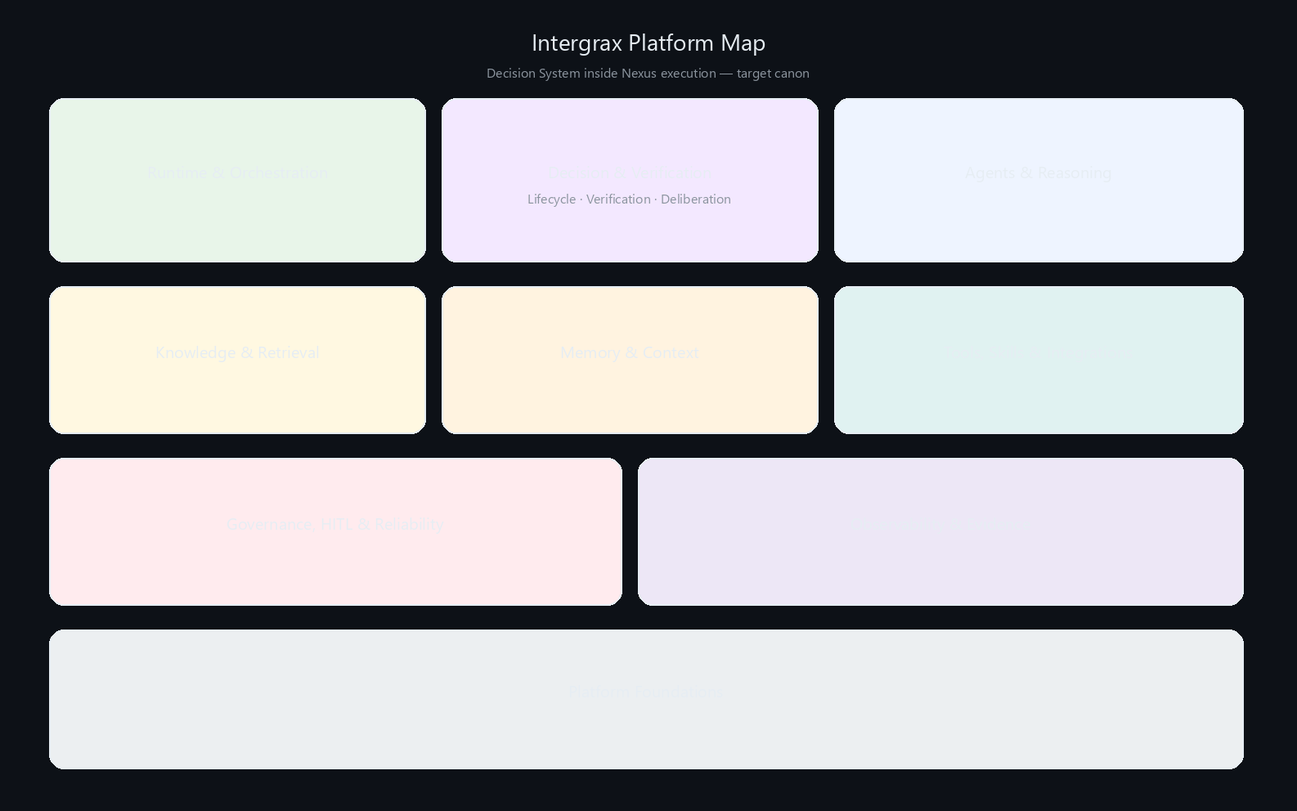
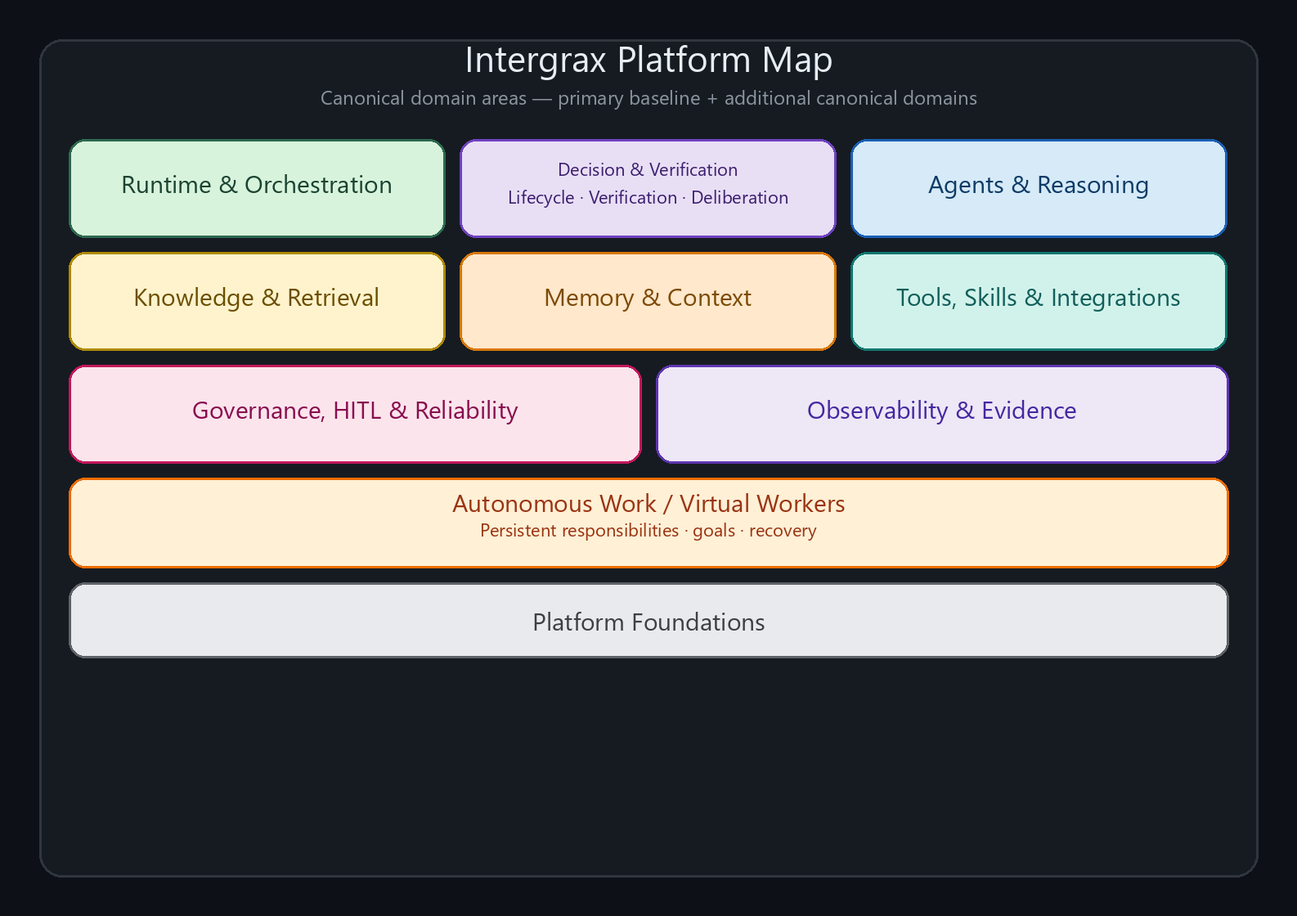
docs: freeze Autonomous Work platform architecture integration

diff --git a/docs/project/architecture/AUTONOMOUS_WORK.md b/docs/project/architecture/AUTONOMOUS_WORK.md
@@ -1,10 +1,140 @@
 # Autonomous Work
 
-**Status:** Canonical target architecture (domain pair 1:1) — **AW-0 documentation accepted; runtime implementation NOT STARTED**  
-**Plan (1:1):** [`../maintainers/plans/AUTONOMOUS_WORK.md`](../maintainers/plans/AUTONOMOUS_WORK.md)  
-**ADR:** [`ADR-AW-001`](../technical/adr/entries/2026-09-02/ADR-AW-001.md)  
-**Architecture governance:** [`INTERGRAX_ARCHITECTURE_PRINCIPLES.md`](INTERGRAX_ARCHITECTURE_PRINCIPLES.md)  
-**Audit origin:** [`AUTONOMOUS_WORK_VIRTUAL_WORKFORCE_ARCHITECTURE_GAP_AUDIT.md`](../../audit_results/2026-09-02/AUTONOMOUS_WORK_VIRTUAL_WORKFORCE_ARCHITECTURE_GAP_AUDIT.md) · [`..._REVIEW.md`](../../audit_results/2026-09-02/AUTONOMOUS_WORK_VIRTUAL_WORKFORCE_ARCHITECTURE_GAP_AUDIT_REVIEW.md)
+**Autonomous Work** is the Intergrax domain for persistent governed AI workers that own business responsibilities and goals across many executions.
+
+Its primary abstraction is the **Virtual Worker** — a durable operational entity, not an agent, task, execution, or application.
+
+---
+
+## Why it matters
+
+Most agent platforms optimize for **task-oriented execution**: a human or system sends work, an agent runs, and the run ends.
+
+Autonomous Work targets a different problem: **who remains responsible when the work spans days, events, failures, and many runs?**
+
+```text
+Agent:
+receives work → executes → finishes
+
+Virtual Worker:
+owns responsibility → watches goals → accepts/creates work
+→ launches governed executions → handles obstacles → remains responsible
+```
+
+Intergrax already provides governed execution, agents, tools, policy, evidence, and recovery building blocks. Autonomous Work composes them under one durable worker semantics layer instead of inventing parallel runtimes.
+
+---
+
+## Claim / maturity boundary
+
+> [!IMPORTANT]
+> **Canonical target architecture exists. Runtime implementation has not started.**
+>
+> - Virtual Workforce is **not** a shipped product.
+> - Virtual Worker contracts, persistence, control plane, and recovery controller are **not implemented**.
+> - CodeCraft / Sandbox production hardening remains required before production-style autonomous generated-code recovery.
+>
+> Do not present Virtual Workers as production capability until implementation and proof gates say so.
+
+---
+
+## At a glance
+
+| Concern | Summary |
+| --- | --- |
+| **Responsibility** | Persistent autonomous business responsibility, goals, lifecycle, work intake, and worker-level recovery semantics |
+| **Main abstraction** | **Virtual Worker** (`WorkerDefinition` → `WorkerInstance`) |
+| **Owns** | Responsibilities, goals, worker lifecycle, wake-up semantics, worker→work/execution correlation, obstacle classification hand-off |
+| **Reuses** | Collaborative Principal/authority, WorkItem, Governed Execution, Agents, Tools/Skills/Integrations, CodeCraft, Sandbox, Memory, Observability, Diagnostics, Hosting |
+| **Does not own** | Agent cognition, policy engine, execution lifecycle, memory store, generated-code synthesis, evidence truth, application UX |
+| **Current maturity** | AW-0 — canonical architecture and documentation integration; **runtime not implemented** |
+| **First planned proof** | **Autonomous Order Operations Worker** — planned / not implemented |
+
+---
+
+## Flagship architecture visual
+
+<a href="assets/autonomous-work-flagship-light.svg">
+<picture>
+  <source media="(prefers-color-scheme: dark)" srcset="assets/autonomous-work-flagship-dark.svg">
+  <source media="(prefers-color-scheme: light)" srcset="assets/autonomous-work-flagship-light.svg">
+  <img src="assets/autonomous-work-flagship-light.svg" alt="Autonomous Work flagship diagram: Business Responsibility and Goals feed a Virtual Worker that is not an Agent or Execution; events, schedules, and goal evaluation create Work; Governed Execution uses Agents, Tools, Skills, and Integrations; obstacles route through Recovery Controller to reuse capabilities or CodeCraft with Sandbox verification before resuming work; Governance and Authority bound actions while Observability and Evidence record facts.">
+</picture>
+</a>
+
+---
+
+## How it works
+
+1. A **Virtual Worker** exists as a durable responsibility holder — usually **IDLE**, not continuously reasoning.
+2. An external **event**, **schedule**, or **goal evaluation** wakes the worker when action is required.
+3. The worker **accepts or creates work** in the collaborative work plane.
+4. The worker dispatches a canonical **Governed Execution** — it does not replace execution semantics.
+5. An **Agent** performs reasoning inside that execution.
+6. **Governance** evaluates authority and policy at configured boundaries.
+7. When progress stalls or fails, **obstacle classification** precedes any recovery strategy.
+8. The worker first tries to **reuse an existing capability**; a true gap may route to **CodeCraft**.
+9. Generated code runs through **Sandbox + verification** before resuming the original work item.
+10. After execution completes, the **worker remains responsible** — ready for the next wake-up.
+
+Persistent availability is **event-driven and bounded**, not an infinite LLM loop.
+
+---
+
+## Ownership boundaries
+
+```text
+Worker != Agent
+Worker != Principal
+Worker != WorkItem
+Worker != Task
+Worker != Execution
+Worker lifetime != process lifetime
+```
+
+| Autonomous Work owns | Autonomous Work does not own |
+| --- | --- |
+| Worker definition/instance semantics, responsibilities, goals, lifecycle, wake-up, recovery decision semantics | Collaborative identity/authority, Task/Run/Execution lifecycle, agent cognition, tools/skills/integrations, memory stores, CodeCraft synthesis, sandbox substrate, HOS/evidence truth, Tier-3 application UX |
+
+Normative rule: **Capability may grow. Authority may not self-expand.**
+
+---
+
+## Relationship to Intergrax
+
+Autonomous Work sits above governed execution and composes existing domains:
+
+| Neighbor | Relationship |
+| --- | --- |
+| [Collaborative Work](COLLABORATIVE_WORK.md) | Principal binding, workspace, delegation, future WorkItem/Assignment |
+| [Governed Execution](GOVERNED_EXECUTION.md) | Authority, policy enforcement, control-plane gates |
+| [Unified Execution Runtime](UNIFIED_EXECUTION_RUNTIME.md) / Nexus | Actual Task/Run/Attempt/Execution lifecycle |
+| [Agents](AGENT_CONTRACTS_AND_ASSEMBLY.md) / [Reasoning](REASONING_AND_COGNITION.md) | Cognition inside worker-triggered executions |
+| [Code Craft](CODE_CRAFT.md) / Sandbox | Canonical missing-code capability path |
+| [Observability](OBSERVABILITY.md) / [Diagnostics](DIAGNOSTICS.md) | Execution truth and obstacle evidence |
+| [Application Hosting](APPLICATION_HOSTING.md) | Host process lifetime; worker identity survives restart |
+| [Multiplayer AI](../capabilities/architecture/MULTIPLAYER_AI.md) | Future collaboration may compose Multiplayer; neither owns Autonomous Work |
+
+---
+
+## Evidence / proof
+
+**Planned flagship proof:** [Autonomous Order Operations Worker](#reference-enterprise-scenario) — **not implemented**.
+
+No dedicated public Autonomous Work proof route exists at AW-0. Architecture existence does not imply production qualification.
+
+---
+
+## Go deeper
+
+| Depth | Route |
+| --- | --- |
+| Implementation plan | [`../maintainers/plans/AUTONOMOUS_WORK.md`](../maintainers/plans/AUTONOMOUS_WORK.md) |
+| ADR | [`ADR-AW-001`](../technical/adr/entries/2026-09-02/ADR-AW-001.md) |
+| Audit origin | [`AUTONOMOUS_WORK_VIRTUAL_WORKFORCE_ARCHITECTURE_GAP_AUDIT.md`](../../audit_results/2026-09-02/AUTONOMOUS_WORK_VIRTUAL_WORKFORCE_ARCHITECTURE_GAP_AUDIT.md) · [`..._REVIEW.md`](../../audit_results/2026-09-02/AUTONOMOUS_WORK_VIRTUAL_WORKFORCE_ARCHITECTURE_GAP_AUDIT_REVIEW.md) |
+| Product-facing concept | [`../overview/VIRTUAL_WORKFORCE.md`](../overview/VIRTUAL_WORKFORCE.md) |
+| Architecture governance | [`INTERGRAX_ARCHITECTURE_PRINCIPLES.md`](INTERGRAX_ARCHITECTURE_PRINCIPLES.md) |
+| Engineering canon | Sections below in this file |
 
 ---
 
@@ -12,7 +142,7 @@
 
 **Do not read this entire file in one session.**
 
-- **Default:** §Purpose, §Ownership boundary, §Core model, §Normative invariants, §Integration boundaries.
+- **Default:** human-facing front through §Go deeper, then §Ownership boundary, §Core model, §Normative invariants, §Integration boundaries.
 - **Implementation:** this read-scope block + the active `AW-*` row in [`../maintainers/plans/AUTONOMOUS_WORK.md`](../maintainers/plans/AUTONOMOUS_WORK.md).
 - **CodeCraft recovery work:** §Adaptive obstacle recovery + relevant slice of [`CODE_CRAFT.md`](CODE_CRAFT.md) and [`GOVERNED_EXECUTION.md`](GOVERNED_EXECUTION.md).
 - **Collaborative identity/work:** §Principal and WorkItem integration + relevant slice of [`COLLABORATIVE_WORK.md`](COLLABORATIVE_WORK.md).

diff --git a/docs/project/architecture/ARCHITECTURE_OVERVIEW.md b/docs/project/architecture/ARCHITECTURE_OVERVIEW.md
@@ -73,7 +73,7 @@ Products can reuse existing governed mechanisms, surface missing shared capabili
   >
   <img
     src="../assets/public/readme/intergrax-platform-map-light.png"
-    alt="Intergrax platform architecture map showing execution core, decision and verification, intelligence and context, knowledge and action, governance, evidence and observability, platform foundation, and connected resources."
+    alt="Intergrax platform architecture map showing execution core, decision and verification, intelligence and context, knowledge and action, governance, evidence and observability, autonomous work and virtual workers, platform foundation, and connected resources."
   >
 </picture>
 </a>
@@ -163,6 +163,30 @@ The application defines what the business rule means. Intergrax provides reusabl
 
 Details belong in the owning [Governed Execution architecture](GOVERNED_EXECUTION.md).
 
+## Persistent autonomous work
+
+Intergrax also defines a **target architecture** for durable autonomous responsibility through **Virtual Workers** — distinct from single-run agent execution.
+
+```text
+task-oriented execution:
+Application → Execution → Agent → Result
+
+persistent autonomous work:
+Organization / Application
+→ Virtual Worker
+→ Responsibilities + Goals
+→ many governed Executions over time
+```
+
+A Virtual Worker:
+
+- uses the **application operating layer** and existing governed execution,
+- does **not** replace Agents or Executions,
+- composes Tools, Skills, Integrations, Governance, Observability, CodeCraft, and recovery mechanisms,
+- remains responsible after each execution completes or fails.
+
+**Maturity:** canonical architecture and implementation plan exist; worker runtime, control plane, reference application, and end-to-end proof are **not implemented**. Details: [Autonomous Work](AUTONOMOUS_WORK.md) · product-facing [Virtual Workforce](../overview/VIRTUAL_WORKFORCE.md).
+
 ## Decision System inside Nexus execution
 
 The **Decision System** is the platform capability that leads a decision from candidate proposal through optional deliberation, verification, revision, and resolution to an **authoritative lifecycle outcome** - executed as a **Decision Lifecycle model inside Nexus**, not as a second runtime.
@@ -209,6 +233,8 @@ Intergrax has longer-term architectural directions that may extend the current o
 
 - **Multiplayer AI** - extends governed execution toward collaboration among multiple principals (humans, agents, services, and eventually external agents). Architectural direction; today's runtime does not complete that evolution. The planned layer coordinates identity, authority, shared work, artifacts, decisions, and context views while reusing existing UCL, context, memory, knowledge/RAG, token optimization, HITL, execution, and evidence mechanisms. Details: [Multiplayer AI architecture](../capabilities/architecture/MULTIPLAYER_AI.md).
 
+- **Autonomous Work / Virtual Workforce** - persistent Virtual Workers that own business responsibilities and goals across many governed executions. Canonical architecture and implementation plan exist; worker runtime, control plane, reference application, and end-to-end proof are **not implemented**. Details: [Virtual Workforce](../overview/VIRTUAL_WORKFORCE.md) · [Autonomous Work](AUTONOMOUS_WORK.md).
+
 - **Platform extensibility / Plugins** - coordinates independently packaged extensions at the package boundary. Domain-specific extension mechanisms already exist across integrations, tools, skills, RAG, Vendor Knowledge, security, policy, host composition, and other domains; multiple cross-cutting extension-platform implementation slices exist while residual Protocol v2 breadth and complete external third-party install-to-runtime E2E qualification remain incomplete. Platform Plugin is **not** a universal `PlatformPlugin.execute()` and does **not** replace IntegrationPlugin, ToolPlugin, SkillPlugin, RAG contracts, Vendor Knowledge contracts, security or policy contracts, RuntimePlugin, or other domain-owned surfaces. Details: [Platform Plugins architecture](PLATFORM_PLUGINS.md).
 
 ## Architect review path
@@ -219,6 +245,6 @@ Architecture-specific continuation - not a general documentation index.
 2. **[Platform Map](../../../README.md#explore-the-intergrax-platform)** - choose a platform area and open its canonical domain or feature hub.
 3. **Domain / feature hub** - next level after this overview: definition, why it matters, maturity, visual, how it works, boundaries, evidence, and deeper canon (per the documentation design system).
 4. **[PROOFS](../proofs/PROOFS.md)** and owning proof documents - inspect bounded evidence for the chosen area; exact proof semantics live in the owning proof doc.
-5. **[Technical Documentation Map](../technical/DOCUMENTATION_MAP.md)** and [runtime architecture hub](../architecture/intergrax_runtime_architecture.md) (complete 24-domain index) - implementation-level due diligence, including the [Harness narrative](../technical/guides/INTERGRAX_HARNESS_NARRATIVE.md) when helpful.
+5. **[Technical Documentation Map](../technical/DOCUMENTATION_MAP.md)** and [runtime architecture hub](../architecture/intergrax_runtime_architecture.md) (canonical domain index) - implementation-level due diligence, including the [Harness narrative](../technical/guides/INTERGRAX_HARNESS_NARRATIVE.md) when helpful.
 
 Use the [Evaluation Guide](../builders/EVALUATION_GUIDE.md) when you need a bounded technical evaluation of one claim. The overview summarizes the architecture; proof documents establish current evidence; the technical map and runtime hub route deep review. None of these routes turns bounded evidence into a production, security, real-user, or commercial validation claim.

diff --git a/README.md b/README.md
@@ -64,6 +64,12 @@ Intergrax centralizes reusable mechanisms so product teams can focus on the
 specialized workflow. Read [Why Intergrax](docs/project/overview/WHY_INTERGRAX.md)
 for the category, problem, and fit.
 
+Intergrax is evolving toward governed autonomous AI systems and persistent
+**Virtual Workers** that own responsibilities and goals across many executions.
+This is **canonical architecture / implementation roadmap** direction — the
+Virtual Worker runtime, control plane, and Virtual Workforce product are
+**not implemented yet**.
+
 <a href="docs/project/assets/public/readme/fullsize/intergrax-why.md">
 <picture>
   <source media="(prefers-color-scheme: dark)" srcset="docs/project/assets/public/readme/intergrax-why-dark.png">
@@ -256,7 +262,7 @@ not as a first-contact route.
 <picture>
   <source media="(prefers-color-scheme: dark)" srcset="docs/project/assets/public/readme/intergrax-platform-map-dark.png">
   <source media="(prefers-color-scheme: light)" srcset="docs/project/assets/public/readme/intergrax-platform-map-light.png">
-  <img src="docs/project/assets/public/readme/intergrax-platform-map-light.png" alt="Intergrax platform architecture map showing execution core, decision and verification, intelligence and context, knowledge and action, governance, evidence and observability, platform foundation, and connected resources.">
+  <img src="docs/project/assets/public/readme/intergrax-platform-map-light.png" alt="Intergrax platform architecture map showing execution core, decision and verification, intelligence and context, knowledge and action, governance, evidence and observability, autonomous work and virtual workers, platform foundation, and connected resources.">
 </picture>
 </a>
 
@@ -272,6 +278,7 @@ not as a first-contact route.
 | **Tools, Skills & Integrations** | Tools, skills, integrations, LLM adapters, and code-craft surfaces | [Tools](docs/project/architecture/TOOLS.md) · [Skills](docs/project/architecture/SKILLS.md) · [Integrations](docs/project/architecture/INTEGRATIONS.md) · [LLM Adapters](docs/project/architecture/LLM_ADAPTERS.md) · [Code Craft](docs/project/architecture/CODE_CRAFT.md) |
 | **Governance, HITL & Reliability** | Policy and approval enforcement, failure handling, and human-in-the-loop | [Governed Execution](docs/project/architecture/GOVERNED_EXECUTION.md) · [Reliability / Failure / HITL](docs/project/architecture/RELIABILITY_FAILURE_AND_HITL.md) |
 | **Observability & Evidence** | Runtime observability, proof receipts, and reviewable execution records | [Observability](docs/project/architecture/OBSERVABILITY.md) · [Proof Receipts](docs/project/architecture/PROOF_RECEIPTS.md) |
+| **Autonomous Work / Virtual Workers** | Persistent governed workers that own responsibilities and goals across many executions — **canonical architecture; runtime not implemented** | [Autonomous Work](docs/project/architecture/AUTONOMOUS_WORK.md) · [Virtual Workforce](docs/project/overview/VIRTUAL_WORKFORCE.md) |
 | **Extensibility & Ecosystem** | Governed plugins, agent distribution, marketplace direction, multiplayer collaboration | [Platform Plugins](docs/project/architecture/PLATFORM_PLUGINS.md) · [Agent Distribution](docs/project/architecture/AGENT_DISTRIBUTION.md) · [Multiplayer AI](docs/project/capabilities/architecture/MULTIPLAYER_AI.md) · [Agent Marketplace](docs/project/overview/AGENT_MARKETPLACE.md) |
 | **Application Platform** | Tier-3 application environment and application hosting | [Tier-3 Application Environment](docs/project/architecture/TIER3_APPLICATION_ENVIRONMENT.md) · [Application Hosting](docs/project/architecture/APPLICATION_HOSTING.md) |
 | **Platform Foundations & Scale** | Core platform foundation, elastic capacity, modality, and developer experience | [Platform Foundation](docs/project/architecture/PLATFORM_FOUNDATION.md) · [Elastic Capacity & Scaling](docs/project/architecture/ELASTIC_CAPACITY_AND_SCALING.md) · [Modality](docs/project/architecture/MODALITY.md) · [Experimentation & DX](docs/project/architecture/EXPERIMENTATION_AND_DEVELOPER_EXPERIENCE.md) |
@@ -402,6 +409,7 @@ lack established runtime proof:
 | Direction | What it adds | Current maturity | Explore |
 | --- | --- | --- | --- |
 | **Multiplayer AI** | Governed multi-principal collaboration among humans, agents, services, and external agents | **Architecture / roadmap stage** - runtime proof **not yet established** | [Multiplayer AI architecture](docs/project/capabilities/architecture/MULTIPLAYER_AI.md) |
+| **Autonomous Work / Virtual Workforce** | Persistent Virtual Workers that own business responsibilities and goals across many governed executions | **Canonical architecture frozen** — worker runtime, control plane, reference application, and end-to-end proof **not implemented** | [Virtual Workforce](docs/project/overview/VIRTUAL_WORKFORCE.md) · [Autonomous Work](docs/project/architecture/AUTONOMOUS_WORK.md) |
 | **Platform Extensibility** | Governed extension/package model across domain-owned contracts | **Canonical architecture frozen** - multiple extension-platform slices implemented; core program closed. Residual Protocol v2 work remains planned; complete third-party install-to-runtime E2E proof **not yet established** | [Platform Plugins](docs/project/architecture/PLATFORM_PLUGINS.md) |
 | **Agent Marketplace** | Future ecosystem layer - discovery and distribution over governed Agent Distribution / Platform Extensibility | **FUTURE PRODUCT - NOT SHIPPED TODAY** | [Agent Marketplace concept](docs/project/overview/AGENT_MARKETPLACE.md) |
 

diff --git a/docs/project/community/PUBLIC_DOCUMENTATION_MAP.md b/docs/project/community/PUBLIC_DOCUMENTATION_MAP.md
@@ -78,14 +78,15 @@ with Try LKW as the repository’s primary product action.
 | Explore Governed Execution | [Governed Execution](../architecture/GOVERNED_EXECUTION.md) |
 | Explore Decision System | [Decision System](../architecture/DECISION_SYSTEM.md) - candidate proposals, verification, deliberation, authoritative outcomes separate from authorization (**target canon**; **CURRENT:** [Critic Verification](../architecture/CRITIC_VERIFICATION.md)) |
 | Explore Token Optimization | [Token Optimization](../capabilities/token_optimization/README.md) |
-| Explore strategic future directions | [Multiplayer AI](../capabilities/architecture/MULTIPLAYER_AI.md) · [Platform Extensibility / Plugins](../architecture/PLATFORM_PLUGINS.md) · [Agent Marketplace](../overview/AGENT_MARKETPLACE.md) - see [Strategic directions](#strategic-directions) below |
+| Explore Virtual Workforce / Virtual Workers | [Virtual Workforce](../overview/VIRTUAL_WORKFORCE.md) → [Autonomous Work](../architecture/AUTONOMOUS_WORK.md) |
+| Explore strategic future directions | [Multiplayer AI](../capabilities/architecture/MULTIPLAYER_AI.md) · [Virtual Workforce](../overview/VIRTUAL_WORKFORCE.md) · [Platform Extensibility / Plugins](../architecture/PLATFORM_PLUGINS.md) · [Agent Marketplace](../overview/AGENT_MARKETPLACE.md) - see [Strategic directions](#strategic-directions) below |
 | Check current proof status | [docs/project/proofs/PROOFS.md](../proofs/PROOFS.md) |
 | Explore Scenario Proofs (problem-first) | [Proof Library](../proofs/PROOF_LIBRARY.md) |
 | Compare Intergrax with common approaches | [Where Intergrax fits](../overview/WHY_INTERGRAX.md#where-intergrax-fits) |
 | Compare Intergrax with modern agent/platform alternatives | [Alternatives and trade-offs](../overview/ALTERNATIVES_AND_TRADEOFFS.md) |
 | Run an evaluation | [Evaluation Guide](../builders/EVALUATION_GUIDE.md) |
 | Understand permission boundaries | [Collaboration](COLLABORATION.md) and [LICENSE](../../../LICENSE) |
-| Perform deep technical review | [Technical Documentation Map](../technical/DOCUMENTATION_MAP.md) · [Runtime architecture hub](../architecture/intergrax_runtime_architecture.md) (24-domain index) |
+| Perform deep technical review | [Technical Documentation Map](../technical/DOCUMENTATION_MAP.md) · [Runtime architecture hub](../architecture/intergrax_runtime_architecture.md) (canonical domain index) |
 | Understand why Intergrax exists | [WHY_INTERGRAX](../overview/WHY_INTERGRAX.md) |
 | See where the product-validation program is heading | [Roadmap](../overview/ROADMAP.md) |
 | Read general first-contact questions | [FAQ](../overview/FAQ.md) |
@@ -176,6 +177,12 @@ Future ecosystem and platform directions - **not** current product proofs and **
 **Future collaborative-AI direction - architecture concept**
 
 [Open the Multiplayer AI architecture concept](../capabilities/architecture/MULTIPLAYER_AI.md)
+
+### Autonomous Work / Virtual Workforce
+
+**Persistent Virtual Workers - canonical architecture; runtime not implemented**
+
+[Open the Virtual Workforce overview](../overview/VIRTUAL_WORKFORCE.md) → [Autonomous Work architecture](../architecture/AUTONOMOUS_WORK.md)
 
 ### Platform Extensibility / Plugins
 

diff --git a/docs/project/maintainers/plans/AUTONOMOUS_WORK.md b/docs/project/maintainers/plans/AUTONOMOUS_WORK.md
@@ -4,7 +4,7 @@
 **ADR:** [`ADR-AW-001`](../../technical/adr/entries/2026-09-02/ADR-AW-001.md)  
 **Architecture governance:** [`../../architecture/INTERGRAX_ARCHITECTURE_PRINCIPLES.md`](../../architecture/INTERGRAX_ARCHITECTURE_PRINCIPLES.md)
 
-**Status:** Domain registered — **AW-0 canonical architecture accepted; runtime implementation NOT STARTED**
+**Status:** Domain registered — **AW-0 REVIEW GATE** (documentation integration complete; independent audit pending; runtime implementation NOT STARTED)
 
 ---
 
@@ -47,7 +47,7 @@ Delivery rule:
 
 | Wave | Purpose | Current status |
 |---|---|---|
-| AW-0 | Canonical architecture, ADR, documentation registration | **IN PROGRESS / documentation-only** |
+| AW-0 | Canonical architecture, ADR, documentation registration | **REVIEW GATE** — documentation integration complete; AW-0G pending independent audit |
 | AW-1 | Core semantic contracts | NOT STARTED |
 | AW-2 | Durable worker state and lifecycle | NOT STARTED |
 | AW-3 | Principal / authority / workspace composition | NOT STARTED |
@@ -71,9 +71,9 @@ Delivery rule:
 | AW-0B | Independent architecture/gap review | **DONE** |
 | AW-0C | Freeze DOMAIN vs FEATURE classification (`AUTONOMOUS_WORK` = DOMAIN) | **DONE** |
 | AW-0D | Create canonical architecture/plan pair | **DONE** |
-| AW-0E | ADR-AW-001 ownership/classification decision | **PLANNED IN THIS DOC SET** |
-| AW-0F | Register domain in architecture/documentation hubs and public routes | **PLANNED IN THIS DOC SET** |
-| AW-0G | Independent canonical-doc audit before runtime implementation | **OPEN GATE** |
+| AW-0E | ADR-AW-001 ownership/classification decision | **DONE** |
+| AW-0F | Register domain in architecture/documentation hubs and public routes | **DONE** |
+| AW-0G | Independent canonical-doc audit before runtime implementation | **READY FOR INDEPENDENT REVIEW** |
 
 **Exit gate:** canonical docs accepted with no unresolved ownership conflict; no runtime implementation before AW-0G acceptance.
 

diff --git a/docs/project/technical/DOCUMENTATION_MAP.md b/docs/project/technical/DOCUMENTATION_MAP.md
@@ -22,6 +22,7 @@ Public readers looking for product value, proof paths, evaluation, partnership o
 | **Observability** (HOS, RuntimeEvent, export) | [OBSERVABILITY.md](../architecture/OBSERVABILITY.md) |
 | **Decision System** (target canon - lifecycle, verification, deliberation) | [DECISION_SYSTEM.md](../architecture/DECISION_SYSTEM.md) · [DECISION_VERIFICATION.md](../architecture/DECISION_VERIFICATION.md) · [DECISION_DELIBERATION.md](../architecture/DECISION_DELIBERATION.md) · **CURRENT:** [CRITIC_VERIFICATION.md](../architecture/CRITIC_VERIFICATION.md) |
 | **Token Optimization main guide** | [capabilities/token_optimization/README.md](../capabilities/token_optimization/README.md) |
+| **Autonomous Work / Virtual Worker** | [AUTONOMOUS_WORK.md](../architecture/AUTONOMOUS_WORK.md) · [maintainers/plans/AUTONOMOUS_WORK.md](../maintainers/plans/AUTONOMOUS_WORK.md) |
 | **This map** (roles and workflows) | `docs/project/technical/DOCUMENTATION_MAP.md` |
 | **Extend Intergrax / build plugins** | [EXTENSION_AUTHOR_GUIDE.md](guides/EXTENSION_AUTHOR_GUIDE.md) → surface matrix → domain guide · design: [PLATFORM_PLUGINS.md](../architecture/PLATFORM_PLUGINS.md) |
 | Architecture hub (primary 24 baseline + additional canonical domain pairs) | [intergrax_runtime_architecture.md](../architecture/intergrax_runtime_architecture.md) |

diff --git a/docs/project/architecture/intergrax_runtime_architecture.md b/docs/project/architecture/intergrax_runtime_architecture.md
@@ -93,6 +93,7 @@ Every canonical architecture artifact is classified **exactly once**. Do not pro
 | `AGENT_DISTRIBUTION` | [`AGENT_DISTRIBUTION.md`](AGENT_DISTRIBUTION.md) | [`../maintainers/plans/AGENT_DISTRIBUTION.md`](../maintainers/plans/AGENT_DISTRIBUTION.md) |
 | `PLATFORM_PLUGINS` | [`PLATFORM_PLUGINS.md`](PLATFORM_PLUGINS.md) | [`../maintainers/plans/PLATFORM_PLUGINS.md`](../maintainers/plans/PLATFORM_PLUGINS.md) |
 | `PROOF_RECEIPTS` | [`PROOF_RECEIPTS.md`](PROOF_RECEIPTS.md) | [`../maintainers/plans/PROOF_RECEIPTS.md`](../maintainers/plans/PROOF_RECEIPTS.md) |
+| \AUTONOMOUS_WORK\ | [\AUTONOMOUS_WORK.md\](AUTONOMOUS_WORK.md) | [\../maintainers/plans/AUTONOMOUS_WORK.md\](../maintainers/plans/AUTONOMOUS_WORK.md) |
 
 **Decision System subordinate architecture hubs** (not separate DOMAIN pairs - subordinate to [`DECISION_SYSTEM.md`](DECISION_SYSTEM.md)):
 

diff --git a/docs/project/assets/public/readme/fullsize/intergrax-platform-map.md b/docs/project/assets/public/readme/fullsize/intergrax-platform-map.md
@@ -11,7 +11,7 @@
   >
   <img
     src="../intergrax-platform-map-light.png"
-    alt="Intergrax platform architecture map showing execution core, intelligence/context, knowledge/action, governance, evidence/observability, platform foundation, specialized product surface and connected resources."
+    alt="Intergrax platform architecture map showing execution core, intelligence/context, knowledge/action, governance, evidence/observability, autonomous work/virtual workers, platform foundation, specialized product surface and connected resources."
   >
 </picture>
 
